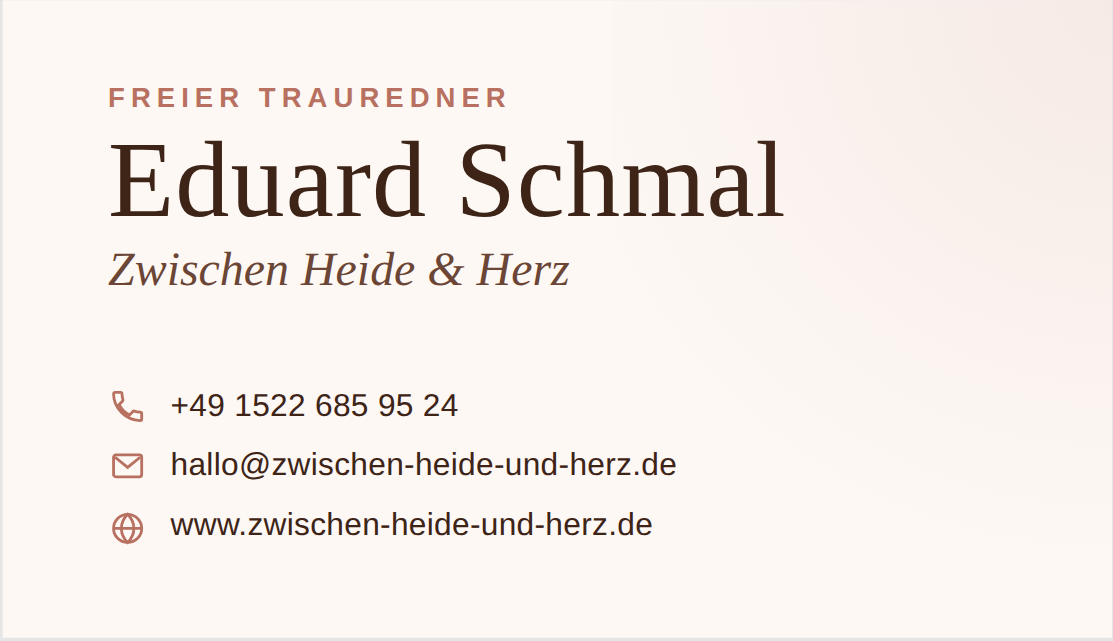
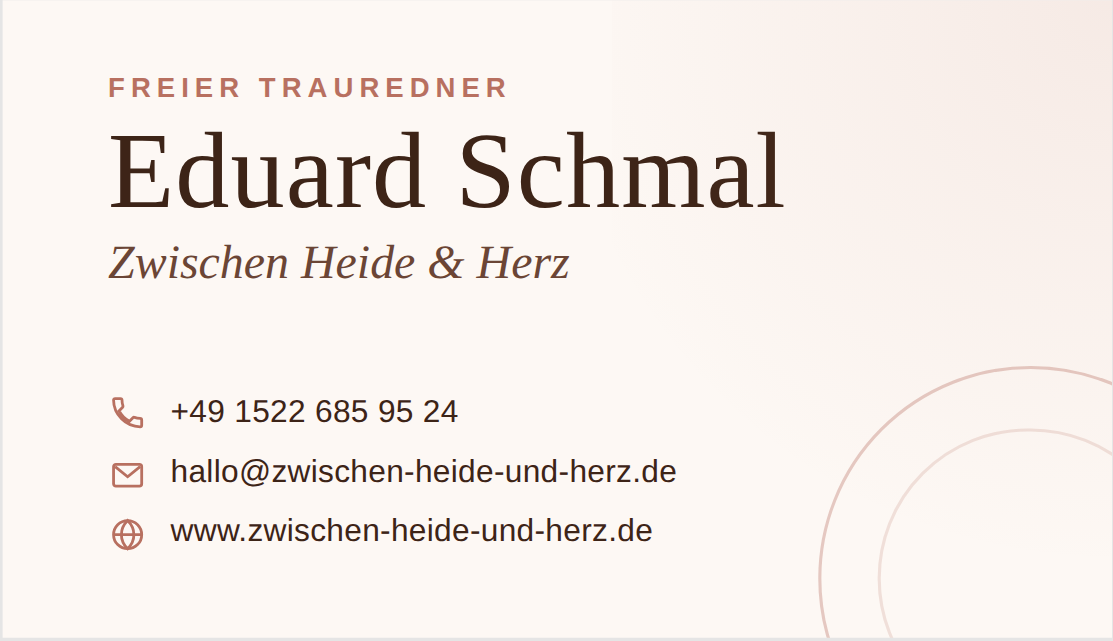
Visitenkarte: dezente Kreis-Akzente und durchgehende Trennlinie auf Vorderseite ergänzt
Claude-Session: https://claude.ai/code/session_01QE2nr22JHhkcWDXGibFUvs

diff --git a/visitenkarte.html b/visitenkarte.html
@@ -54,6 +54,23 @@
     background: radial-gradient(circle at 100% 0%, rgba(184,112,96,0.10), transparent 70%);
     pointer-events: none;
   }
+  .front .deco-circle {
+    position: absolute;
+    right: -1.1cm;
+    bottom: -1.3cm;
+    width: 3.6cm;
+    height: 3.6cm;
+    border-radius: 50%;
+    border: 1px solid rgba(184,112,96,0.35);
+    pointer-events: none;
+  }
+  .front .deco-circle::before {
+    content: '';
+    position: absolute;
+    inset: 0.5cm;
+    border-radius: 50%;
+    border: 1px solid rgba(184,112,96,0.18);
+  }
   .front .kicker {
     font-size: 6.6pt;
     letter-spacing: 0.22em;
@@ -79,10 +96,10 @@
     margin-top: 3px;
   }
   .front .divider {
-    width: 0.7cm;
+    width: 100%;
     height: 1px;
-    background: #b87060;
-    margin: 0.32cm 0;
+    background: rgba(184,112,96,0.3);
+    margin: 0.38cm 0;
   }
   .front .contact {
     font-size: 7.6pt;
@@ -134,6 +151,7 @@
   <div>
     <p class="label">VORDERSEITE</p>
     <div class="card front">
+      <div class="deco-circle"></div>
       <div class="safe-area">
       <div class="kicker">Freier Trauredner</div>
       <div class="name">Eduard Schmal</div>
